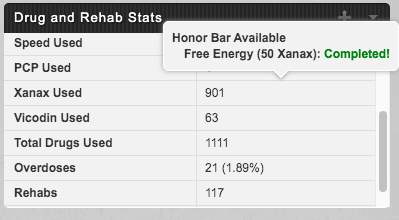
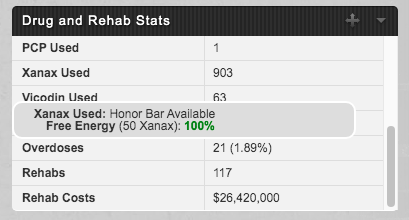
Change to same tool tips as crimes

diff --git a/DrugStats/Torn Drug Stats.user.js b/DrugStats/Torn Drug Stats.user.js
@@ -7,6 +7,7 @@
 // @include      https://www.torn.com/index.php
 // @updateURL    https://github.com/edlau2/Tampermonkey/blob/master/DrugStats/Torn%20Drug%20Stats.user.js
 // @require      http://code.jquery.com/jquery-3.4.1.min.js
+// @require      http://code.jquery.com/ui/1.12.1/jquery-ui.js
 // @connect      tornstats.com
 // @connect      api.torn.com
 // @grant        GM_addStyle
@@ -141,20 +142,20 @@
         var rehabsLi = document.createElement('li');
         var rehabCostLi = document.createElement('li');
 
-        cannibusLi.appendChild(createDividerSpan('Cannibus Used'));
-        ecstasyLi.appendChild(createDividerSpan('Ecstsy Used'));
-        ketamineLi.appendChild(createDividerSpan('Ketamine Used'));
-        lsdLi.appendChild(createDividerSpan('LSD Used'));
-        opiumLi.appendChild(createDividerSpan('Opium Used'));
-        shroomsLi.appendChild(createDividerSpan('Shrooms Used'));
-        speedLi.appendChild(createDividerSpan('Speed Used'));
-        pcpLi.appendChild(createDividerSpan('PCP Used'));
-        xanaxLi.appendChild(createDividerSpan('Xanax Used'));
-        vicodinLi.appendChild(createDividerSpan('Vicodin Used'));
-        totalTakenLi.appendChild(createDividerSpan('Total Drugs Used'));
-        odsLi.appendChild(createDividerSpan('Overdoses'));
-        rehabsLi.appendChild(createDividerSpan('Rehabs'));
-        rehabCostLi.appendChild(createDividerSpan('Rehab Costs'));
+        cannibusLi.appendChild(createDividerSpan('cantaken', 'Cannibus Used'));
+        ecstasyLi.appendChild(createDividerSpan('exttaken', 'Ecstsy Used'));
+        ketamineLi.appendChild(createDividerSpan('kettaken', 'Ketamine Used'));
+        lsdLi.appendChild(createDividerSpan('lsdtaken', 'LSD Used'));
+        opiumLi.appendChild(createDividerSpan('opitaken', 'Opium Used'));
+        shroomsLi.appendChild(createDividerSpan('shrtaken', 'Shrooms Used'));
+        speedLi.appendChild(createDividerSpan('spetaken', 'Speed Used'));
+        pcpLi.appendChild(createDividerSpan('pcptaken', 'PCP Used'));
+        xanaxLi.appendChild(createDividerSpan('xantaken', 'Xanax Used'));
+        vicodinLi.appendChild(createDividerSpan('victaken', 'Vicodin Used'));
+        totalTakenLi.appendChild(createDividerSpan('drugsused', 'Total Drugs Used'));
+        odsLi.appendChild(createDividerSpan('overdosed', 'Overdoses'));
+        rehabsLi.appendChild(createDividerSpan('rehabs', 'Rehabs'));
+        rehabCostLi.appendChild(createDividerSpan('rehabcost', 'Rehab Costs'));
 
         cannibusLi.appendChild(createValueSpan('cantaken'));
         ecstasyLi.appendChild(createValueSpan('exttaken'));
@@ -189,9 +190,10 @@
         return contentDiv;
     }
 
-    function createDividerSpan(name) {
+    function createDividerSpan(item, name) {
         var dividerSpan = document.createElement('span');
         dividerSpan.className = ('divider');
+        dividerSpan.id = 'xedx-div-span-' + item;
 
         var nameSpan = document.createElement('span');
         nameSpan.innerText = name;
@@ -329,6 +331,20 @@
     //////////////////////////////////////////////////////////////////////
 
     function addToolTips() {
+        GM_addStyle(".tooltip2 {" +
+                  "radius: 4px !important;" +
+                  "background-color: #ddd !important;" +
+                  "padding: 5px 20px;" +
+                  "border: 2px solid white;" +
+                  "border-radius: 10px;" +
+                  "width: 300px;" +
+                  "margin: 50px;" +
+                  "text-align: left;" +
+                  "font: bold 14px ;" +
+                  "font-stretch: condensed;" +
+                  "text-decoration: none;" +
+                  "}");
+
         buildUseString('cantaken');
         buildUseString('exttaken');
         buildUseString('kettaken');
@@ -341,54 +357,68 @@
         buildUseString('victaken');
     }
 
+    function displayToolTip(div, text) {
+        $(document).ready(function() {
+            $(div.parentNode).attr("title", "original");
+            $(div.parentNode).tooltip({
+                content: text,
+                classes: {
+                    "ui-tooltip": "tooltip2"
+                }
+            });
+        })
+    }
+
     function buildUseString(item) {
         var useDiv = document.getElementById('xedx-val-span-' + item);
-        var useText = useDiv.innerText;
+        var useText = useDiv.innerText.replace(/,/g, "");
         var pctText = useText/50 * 100;
         if (Number(pctText) >= 100) {
-            pctText = '<B><font color=\'green\'>Completed!</font></B>';
+            pctText = '<B><font color=\'green\'>100%</font></B>';
         } else {
             pctText = '<B><font color=\'red\'>' + pctText + '%</font></B>';
         }
-
-        var text = '<B>Honor Bar Available' + CRLF;
+        var divSpan = document.getElementById('xedx-div-span-' + item);
+        var text = '<B>' + divSpan.innerText + ': </B>Honor Bar Available' + CRLF;
         switch (item) {
             case 'cantaken':
-                text = text + TAB + 'Who\'s Frank? (50 Cannibus): ' + pctText + CRLF;
+                text = text + TAB + '<B>Who\'s Frank?</B> (50 Cannibus): ' + pctText + CRLF;
                 break;
             case 'exttaken':
-                text = text + TAB + 'Party Animal (50 Ecstacy): ' + pctText + CRLF;
+                text = text + TAB + '<B>Party Animal</B> (50 Ecstacy): ' + pctText + CRLF;
                 break;
             case 'kettaken':
-                text = text + TAB + 'Horse Tranquilizer (50 Ketamine): ' + pctText + CRLF;
+                text = text + TAB + '<B>Horse Tranquilizer</B> (50 Ketamine): ' + pctText + CRLF;
                 break;
             case 'lsdtaken':
-                text = text + TAB + 'Acid Dream (50 LSD): ' + pctText + CRLF;
+                text = text + TAB + '<B>Acid Dream</B> (50 LSD): ' + pctText + CRLF;
                 break;
             case 'opitaken':
-                text = text + TAB + 'The Fields of Opium (50 Opium): ' + pctText + CRLF;
+                text = text + TAB + '<B>The Fields of Opium</B> (50 Opium): ' + pctText + CRLF;
                 break;
             case 'shrtaken':
-                text = text + TAB + 'I Think I See Dead People (50 Shrooms): ' + pctText + CRLF;
+                text = text + TAB + '<B>I Think I See Dead People</B> (50 Shrooms): ' + pctText + CRLF;
                 break;
             case 'spetaken':
-                text = text + TAB + 'Crank it Up (50 Speed): ' + pctText + CRLF;
+                text = text + TAB + '<B>Crank it Up</B> (50 Speed): ' + pctText + CRLF;
                 break;
             case 'pcptaken':
-                text = text + TAB + 'Angel Dust (50 PCP): ' + pctText + CRLF;
+                text = text + TAB + '<B>Angel Dust</B> (50 PCP): ' + pctText + CRLF;
                 break;
             case 'xantaken':
-                text = text + TAB + 'Free Energy (50 Xanax): ' + pctText + CRLF;
+                text = text + TAB + '<B>Free Energy</B> (50 Xanax): ' + pctText + CRLF;
                 break;
             case 'victaken':
-                text = text + TAB + 'Painkiller (50 Vicodin): ' + pctText + '</B>';
+                text = text + TAB + '<B>Painkiller</B> (50 Vicodin): ' + pctText + '</B>';
                 break;
             default:
                 return;
         }
 
-        $(useDiv).attr("data-html", "true");
-        $(useDiv).attr("title", text);
+        displayToolTip(useDiv, text);
+
+        //$(useDiv).attr("data-html", "true");
+        //$(useDiv).attr("title", text);
     }
 
     //////////////////////////////////////////////////////////////////////
